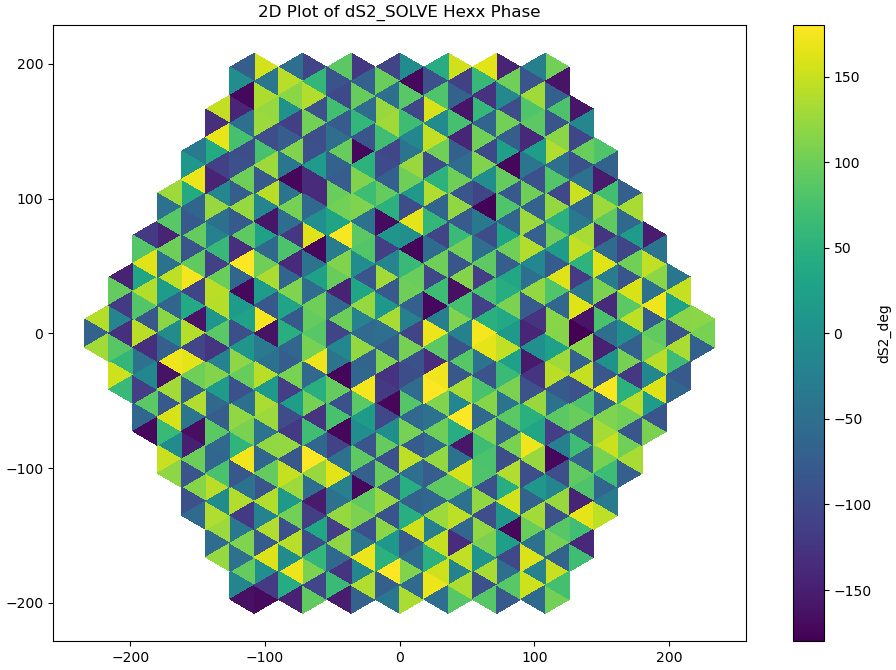
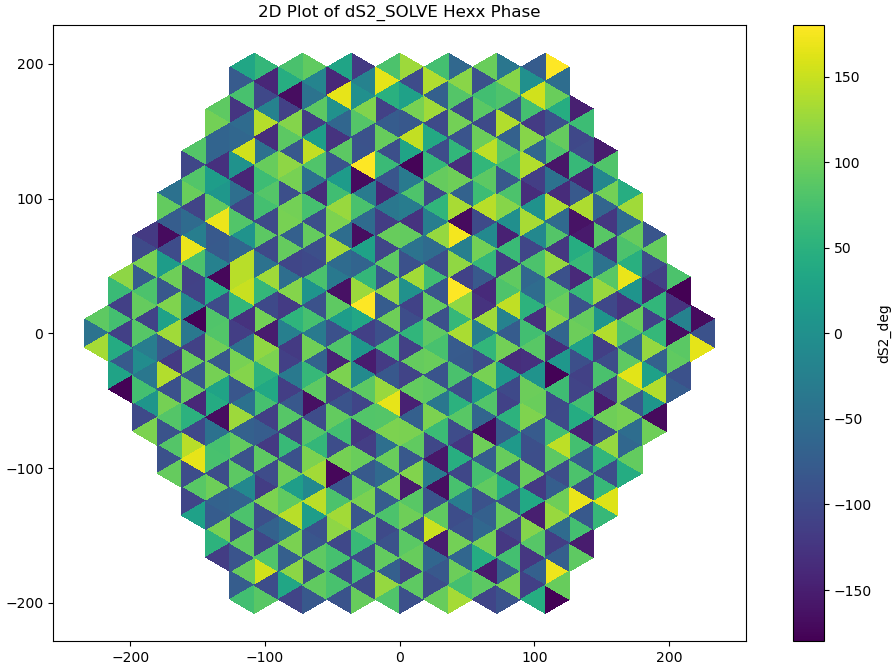
add new test

diff --git a/SRC/UNFOLDING_061_TEST_SUITE_2D_HEXX.py b/SRC/UNFOLDING_061_TEST_SUITE_2D_HEXX.py
@@ -1,0 +1,304 @@
+import numpy as np
+import random
+import os
+import sys
+import time
+
+# Prevent .pyc file generation
+os.environ['PYTHONDONTWRITEBYTECODE'] = '1'
+sys.dont_write_bytecode = True
+
+start_time = time.time()
+
+from SRC_UNFOLDING_2D_HEXX import *
+
+#######################################################################################################
+v1 = 9617897.764585359
+v2 = 297842.0026430868
+Beff = 0.00665941
+l = 0.09243693243603886
+keff_serpent = 0.991938
+FLX = [[0.0, 0.0, 0.0, 0.0, 0.0, 0.0, 0.0, 0.0, 0.0, 0.0, 0.0, 0.0, 0.0, 0.0, 0.0, 0.0, 0.0, 0.0, 0.0, 0.0, 0.0, 0.0, 0.0001770088611845743, 0.0008892357581643995, 0.0012633039317337144, 0.0014801016260392417, 0.0011266130646220855, 0.0007722550058286854, 0.00013829870231191324, 0.0, 0.0, 0.0, 0.0, 0.0, 0.0, 0.0, 0.0008924853491388133, 0.01215136716872885, 0.023234010124160608, 0.02888766523559535, 0.02676197594126766, 0.019577033057860585, 0.00899529521640761, 0.0007809386727331729, 0.0, 0.0, 0.0, 0.0, 0.0, 0.0, 0.0012411085695807078, 0.02287377362991976, 0.14478883877438184, 0.22958575064533893, 0.23566770953586483, 0.19646117959926238, 0.12519292326374717, 0.020189977827251564, 0.0011581501528121851, 0.0, 0.0, 0.0, 0.0, 0.0, 0.0014852349395478841, 0.029529894767073076, 0.22536037782996524, 0.685430774327553, 0.7312280717623661, 0.6854816551883214, 0.5694144969748502, 0.20565591648302445, 0.028399774315115346, 0.0016670605222185414, 0.0, 0.0, 0.0, 0.0, 0.0010725934200870855, 0.025497303879722173, 0.2308871699952172, 0.7377340378259626, 0.7250488738934826, 0.9236402655302522, 0.6978479657266522, 0.7099033376713979, 0.25885242175936973, 0.03207065881669209, 0.0013803864457909657, 0.0, 0.0, 0.0, 0.0006759997241126661, 0.017879421405465057, 0.18783065492713297, 0.6947702389930566, 0.9242056084276797, 0.9946552482477198, 1.0, 0.9265563041951835, 0.7624236928424197, 0.2465392534533971, 0.0251941670181215, 0.0009704630949809989, 0.0, 0.0, 0.00010666347059481987, 0.007468315357313672, 0.10427953266494727, 0.5282405737551997, 0.655657555977427, 0.9427217190042276, 0.7894086400224328, 0.9430711009148379, 0.7323361438413241, 0.7269766931737107, 0.15868044444997226, 0.013376917501772351, 0.00020085163254068492, 0.0, 0.0, 0.000615753392905399, 0.016402293483066287, 0.17680872979888493, 0.6235992216358989, 0.8403494271380422, 0.9123888111856485, 0.910370537041832, 0.9116685643343257, 0.7752908971878714, 0.2452808001637233, 0.02510371215453309, 0.0009665056946990059, 0.0, 0.0, 0.0, 0.0009786877034527754, 0.024076484109907183, 0.20980892540752746, 0.6262936458850387, 0.6322116553353105, 0.8245198260100699, 0.6533441728411533, 0.7057582435474589, 0.24515981678367382, 0.02968785157261434, 0.0013213194198677324, 0.0, 0.0, 0.0, 0.0, 0.0013417622190387136, 0.023799692227326644, 0.1862216890410541, 0.5521421407726429, 0.6144508428697257, 0.6289326665302306, 0.5462196085791916, 0.1981798220074422, 0.029103060879515252, 0.0015850179609438514, 0.0, 0.0, 0.0, 0.0, 0.0, 0.0010641098845682873, 0.01856269483129603, 0.11577204922101404, 0.18499150289625169, 0.20525339234005602, 0.1828884273178211, 0.11128107831242885, 0.0191296206888364, 0.0011337386465012625, 0.0, 0.0, 0.0, 0.0, 0.0, 0.0, 0.0007114829057268105, 0.009653874464478941, 0.01828827738888468, 0.024022776534651565, 0.024140254788737013, 0.017411543623553995, 0.007931873919488389, 0.0007235507152152995, 0.0, 0.0, 0.0, 0.0, 0.0, 0.0, 0.0, 0.00014705247173568188, 0.0007080184844513743, 0.0010270256518686279, 0.0013162539475067815, 0.0010467244597865944, 0.0006577843759575496, 0.00012507985468426165, 0.0, 0.0, 0.0, 0.0, 0.0, 0.0, 0.0, 0.0, 0.0, 0.0, 0.0, 0.0, 0.0, 0.0, 0.0, 0.0, 0.0, 0.0, 0.0, 0.0, 0.0, 0.0], [0.0, 0.0, 0.0, 0.0, 0.0, 0.0, 0.0, 0.0, 0.0, 0.0, 0.0, 0.0, 0.0, 0.0, 0.0, 0.0, 0.0, 0.0, 0.0, 0.0, 0.0, 0.0, 0.016416879329819917, 0.0729558048843365, 0.1090238902601595, 0.10292451880839286, 0.07926571003110518, 0.04053734711714697, 0.008307894787425418, 0.0, 0.0, 0.0, 0.0, 0.0, 0.0, 0.0, 0.07259556839009565, 0.21553132621528936, 0.301065445224492, 0.2815464163479075, 0.2215895407041233, 0.1721423895235177, 0.09764014567755781, 0.041755095718205966, 0.0, 0.0, 0.0, 0.0, 0.0, 0.0, 0.11054398424276277, 0.3000580041812761, 0.43184169494323393, 0.4510701375705407, 0.27581949279696616, 0.3332945131210433, 0.191780140408562, 0.1772383904009299, 0.08264035485442986, 0.0, 0.0, 0.0, 0.0, 0.0, 0.1082870223276524, 0.2893583245045618, 0.444589046594431, 0.31713814379835803, 0.30306675908138564, 0.2780831257582662, 0.2564576292458665, 0.3437759704393506, 0.23427696600819298, 0.10547331072715535, 0.0, 0.0, 0.0, 0.0, 0.08392289175153406, 0.24221664165966586, 0.26801097669769647, 0.31057338207342905, 0.4076065756163086, 0.39883923796300175, 0.40634246889766057, 0.29260113136420635, 0.2876509889543305, 0.2759653512645025, 0.11324835852689732, 0.0, 0.0, 0.0, 0.04353897869674894, 0.18572079523393326, 0.3132010958606724, 0.289949673175271, 0.4026372115479202, 0.45535656741883657, 0.46749108736922207, 0.40168291273706247, 0.3221482125553612, 0.4883511095985048, 0.3227112940811991, 0.07821349383041297, 0.0, 0.0, 0.00836143275981181, 0.10110479309015298, 0.16888940649171943, 0.2337421516272265, 0.36774877066186956, 0.42714708752299535, 0.48577993010100423, 0.4146224809733848, 0.4090572454911078, 0.3388597486033204, 0.4762606863941186, 0.23494293994136264, 0.01791040219624409, 0.0, 0.0, 0.03723223947020587, 0.15259961624524124, 0.2968920839556817, 0.25731242770677704, 0.3642504288125877, 0.4174412806599587, 0.40831664629547765, 0.39801949076173176, 0.32939703918617763, 0.46402666609378584, 0.32108310653660765, 0.07851312556604959, 0.0, 0.0, 0.0, 0.06841757130952637, 0.18831798050471552, 0.22314197230045943, 0.2566701981752993, 0.3630134585530162, 0.35694393720623374, 0.3657813773788216, 0.29382001065106017, 0.2892983981574344, 0.3001722034465565, 0.11649003470074705, 0.0, 0.0, 0.0, 0.0, 0.08262226388171218, 0.2109577021751003, 0.3393052388064933, 0.2522413019168516, 0.2501269194804725, 0.26030309163416887, 0.2442360464892772, 0.3691055936156958, 0.272846919842292, 0.11666981374212901, 0.0, 0.0, 0.0, 0.0, 0.0, 0.08413693057250014, 0.233629083047741, 0.34152590570758884, 0.35072516533453035, 0.23520525904576906, 0.3155857122020219, 0.18488182637415074, 0.20669727810008606, 0.09272075792130201, 0.0, 0.0, 0.0, 0.0, 0.0, 0.0, 0.056906963780741934, 0.17050515649256745, 0.23542687346156066, 0.21371657551454684, 0.21515933058878203, 0.16516831954085112, 0.11004433419001629, 0.047429442379686555, 0.0, 0.0, 0.0, 0.0, 0.0, 0.0, 0.0, 0.01304438280950545, 0.05715842830151772, 0.08562807899875512, 0.08788538011960395, 0.07467489956683428, 0.04042224330323071, 0.009072136623025964, 0.0, 0.0, 0.0, 0.0, 0.0, 0.0, 0.0, 0.0, 0.0, 0.0, 0.0, 0.0, 0.0, 0.0, 0.0, 0.0, 0.0, 0.0, 0.0, 0.0, 0.0, 0.0]]
+NUFIS = [[0.0, 0.0, 0.0, 0.0, 0.0, 0.0, 0.0, 0.0, 0.0, 0.0, 0.0, 0.0, 0.0, 0.0, 0.0, 0.0, 0.0, 0.0, 0.0, 0.0, 0.0, 0.0, 0.0, 0.0, 0.0, 0.0, 0.0, 0.0, 0.0, 0.0, 0.0, 0.0, 0.0, 0.0, 0.0, 0.0, 0.0, 0.0, 0.0, 0.0, 0.0, 0.0, 0.0, 0.0, 0.0, 0.0, 0.0, 0.0, 0.0, 0.0, 0.0, 0.0, 0.0, 0.0, 0.0, 0.0, 0.0, 0.0, 0.0, 0.0, 0.0, 0.0, 0.0, 0.0, 0.0, 0.0, 0.0, 0.000522382, 0.000512195, 0.000514684, 0.000534498, 0.0, 0.0, 0.0, 0.0, 0.0, 0.0, 0.0, 0.0, 0.0, 0.0, 0.000512865, 0.0, 0.000443162, 0.0, 0.000512999, 0.0, 0.0, 0.0, 0.0, 0.0, 0.0, 0.0, 0.0, 0.0, 0.000511301, 0.000441101, 0.000412904, 0.00041152, 0.000442592, 0.000511598, 0.0, 0.0, 0.0, 0.0, 0.0, 0.0, 0.0, 0.0, 0.000535617, 0.0, 0.000413548, 0.0, 0.000416285, 0.0, 0.000522121, 0.0, 0.0, 0.0, 0.0, 0.0, 0.0, 0.0, 0.0, 0.000513923, 0.000441592, 0.000412598, 0.000416055, 0.000441005, 0.000510949, 0.0, 0.0, 0.0, 0.0, 0.0, 0.0, 0.0, 0.0, 0.0, 0.000514271, 0.0, 0.000443337, 0.0, 0.000510688, 0.0, 0.0, 0.0, 0.0, 0.0, 0.0, 0.0, 0.0, 0.0, 0.0, 0.000526856, 0.000515594, 0.000513401, 0.000537045, 0.0, 0.0, 0.0, 0.0, 0.0, 0.0, 0.0, 0.0, 0.0, 0.0, 0.0, 0.0, 0.0, 0.0, 0.0, 0.0, 0.0, 0.0, 0.0, 0.0, 0.0, 0.0, 0.0, 0.0, 0.0, 0.0, 0.0, 0.0, 0.0, 0.0, 0.0, 0.0, 0.0, 0.0, 0.0, 0.0, 0.0, 0.0, 0.0, 0.0, 0.0, 0.0, 0.0, 0.0, 0.0, 0.0, 0.0, 0.0, 0.0, 0.0, 0.0, 0.0, 0.0, 0.0, 0.0, 0.0, 0.0, 0.0, 0.0, 0.0, 0.0, 0.0, 0.0, 0.0, 0.0, 0.0, 0.0], [0.0, 0.0, 0.0, 0.0, 0.0, 0.0, 0.0, 0.0, 0.0, 0.0, 0.0, 0.0, 0.0, 0.0, 0.0, 0.0, 0.0, 0.0, 0.0, 0.0, 0.0, 0.0, 0.0, 0.0, 0.0, 0.0, 0.0, 0.0, 0.0, 0.0, 0.0, 0.0, 0.0, 0.0, 0.0, 0.0, 0.0, 0.0, 0.0, 0.0, 0.0, 0.0, 0.0, 0.0, 0.0, 0.0, 0.0, 0.0, 0.0, 0.0, 0.0, 0.0, 0.0, 0.0, 0.0, 0.0, 0.0, 0.0, 0.0, 0.0, 0.0, 0.0, 0.0, 0.0, 0.0, 0.0, 0.0, 0.0120148, 0.0109863, 0.0109297, 0.0116865, 0.0, 0.0, 0.0, 0.0, 0.0, 0.0, 0.0, 0.0, 0.0, 0.0, 0.0109246, 0.0, 0.00926737, 0.0, 0.0109421, 0.0, 0.0, 0.0, 0.0, 0.0, 0.0, 0.0, 0.0, 0.0, 0.0110345, 0.00930878, 0.00875125, 0.0087552, 0.00928386, 0.0110368, 0.0, 0.0, 0.0, 0.0, 0.0, 0.0, 0.0, 0.0, 0.0115626, 0.0, 0.00864636, 0.0, 0.00861226, 0.0, 0.012056, 0.0, 0.0, 0.0, 0.0, 0.0, 0.0, 0.0, 0.0, 0.0109599, 0.00928907, 0.00866788, 0.00864326, 0.00928984, 0.0109927, 0.0, 0.0, 0.0, 0.0, 0.0, 0.0, 0.0, 0.0, 0.0, 0.0109103, 0.0, 0.00926143, 0.0, 0.011055, 0.0, 0.0, 0.0, 0.0, 0.0, 0.0, 0.0, 0.0, 0.0, 0.0, 0.0119421, 0.0108377, 0.0109514, 0.0115927, 0.0, 0.0, 0.0, 0.0, 0.0, 0.0, 0.0, 0.0, 0.0, 0.0, 0.0, 0.0, 0.0, 0.0, 0.0, 0.0, 0.0, 0.0, 0.0, 0.0, 0.0, 0.0, 0.0, 0.0, 0.0, 0.0, 0.0, 0.0, 0.0, 0.0, 0.0, 0.0, 0.0, 0.0, 0.0, 0.0, 0.0, 0.0, 0.0, 0.0, 0.0, 0.0, 0.0, 0.0, 0.0, 0.0, 0.0, 0.0, 0.0, 0.0, 0.0, 0.0, 0.0, 0.0, 0.0, 0.0, 0.0, 0.0, 0.0, 0.0, 0.0, 0.0, 0.0, 0.0, 0.0, 0.0, 0.0]]
+chi = [[0.0, 0.0, 0.0, 0.0, 0.0, 0.0, 0.0, 0.0, 0.0, 0.0, 0.0, 0.0, 0.0, 0.0, 0.0, 0.0, 0.0, 0.0, 0.0, 0.0, 0.0, 0.0, 0.0, 0.0, 0.0, 0.0, 0.0, 0.0, 0.0, 0.0, 0.0, 0.0, 0.0, 0.0, 0.0, 0.0, 0.0, 0.0, 0.0, 0.0, 0.0, 0.0, 0.0, 0.0, 0.0, 0.0, 0.0, 0.0, 0.0, 0.0, 0.0, 0.0, 0.0, 0.0, 0.0, 0.0, 0.0, 0.0, 0.0, 0.0, 0.0, 0.0, 0.0, 0.0, 0.0, 0.0, 0.0, 1.0, 1.0, 1.0, 1.0, 0.0, 0.0, 0.0, 0.0, 0.0, 0.0, 0.0, 0.0, 0.0, 0.0, 1.0, 0.0, 1.0, 0.0, 1.0, 0.0, 0.0, 0.0, 0.0, 0.0, 0.0, 0.0, 0.0, 0.0, 1.0, 1.0, 1.0, 1.0, 1.0, 1.0, 0.0, 0.0, 0.0, 0.0, 0.0, 0.0, 0.0, 0.0, 1.0, 0.0, 1.0, 0.0, 1.0, 0.0, 1.0, 0.0, 0.0, 0.0, 0.0, 0.0, 0.0, 0.0, 0.0, 1.0, 1.0, 1.0, 1.0, 1.0, 1.0, 0.0, 0.0, 0.0, 0.0, 0.0, 0.0, 0.0, 0.0, 0.0, 1.0, 0.0, 1.0, 0.0, 1.0, 0.0, 0.0, 0.0, 0.0, 0.0, 0.0, 0.0, 0.0, 0.0, 0.0, 1.0, 1.0, 1.0, 1.0, 0.0, 0.0, 0.0, 0.0, 0.0, 0.0, 0.0, 0.0, 0.0, 0.0, 0.0, 0.0, 0.0, 0.0, 0.0, 0.0, 0.0, 0.0, 0.0, 0.0, 0.0, 0.0, 0.0, 0.0, 0.0, 0.0, 0.0, 0.0, 0.0, 0.0, 0.0, 0.0, 0.0, 0.0, 0.0, 0.0, 0.0, 0.0, 0.0, 0.0, 0.0, 0.0, 0.0, 0.0, 0.0, 0.0, 0.0, 0.0, 0.0, 0.0, 0.0, 0.0, 0.0, 0.0, 0.0, 0.0, 0.0, 0.0, 0.0, 0.0, 0.0, 0.0, 0.0, 0.0, 0.0, 0.0, 0.0], [0.0, 0.0, 0.0, 0.0, 0.0, 0.0, 0.0, 0.0, 0.0, 0.0, 0.0, 0.0, 0.0, 0.0, 0.0, 0.0, 0.0, 0.0, 0.0, 0.0, 0.0, 0.0, 0.0, 0.0, 0.0, 0.0, 0.0, 0.0, 0.0, 0.0, 0.0, 0.0, 0.0, 0.0, 0.0, 0.0, 0.0, 0.0, 0.0, 0.0, 0.0, 0.0, 0.0, 0.0, 0.0, 0.0, 0.0, 0.0, 0.0, 0.0, 0.0, 0.0, 0.0, 0.0, 0.0, 0.0, 0.0, 0.0, 0.0, 0.0, 0.0, 0.0, 0.0, 0.0, 0.0, 0.0, 0.0, 0.0, 0.0, 0.0, 0.0, 0.0, 0.0, 0.0, 0.0, 0.0, 0.0, 0.0, 0.0, 0.0, 0.0, 0.0, 0.0, 0.0, 0.0, 0.0, 0.0, 0.0, 0.0, 0.0, 0.0, 0.0, 0.0, 0.0, 0.0, 0.0, 0.0, 0.0, 0.0, 0.0, 0.0, 0.0, 0.0, 0.0, 0.0, 0.0, 0.0, 0.0, 0.0, 0.0, 0.0, 0.0, 0.0, 0.0, 0.0, 0.0, 0.0, 0.0, 0.0, 0.0, 0.0, 0.0, 0.0, 0.0, 0.0, 0.0, 0.0, 0.0, 0.0, 0.0, 0.0, 0.0, 0.0, 0.0, 0.0, 0.0, 0.0, 0.0, 0.0, 0.0, 0.0, 0.0, 0.0, 0.0, 0.0, 0.0, 0.0, 0.0, 0.0, 0.0, 0.0, 0.0, 0.0, 0.0, 0.0, 0.0, 0.0, 0.0, 0.0, 0.0, 0.0, 0.0, 0.0, 0.0, 0.0, 0.0, 0.0, 0.0, 0.0, 0.0, 0.0, 0.0, 0.0, 0.0, 0.0, 0.0, 0.0, 0.0, 0.0, 0.0, 0.0, 0.0, 0.0, 0.0, 0.0, 0.0, 0.0, 0.0, 0.0, 0.0, 0.0, 0.0, 0.0, 0.0, 0.0, 0.0, 0.0, 0.0, 0.0, 0.0, 0.0, 0.0, 0.0, 0.0, 0.0, 0.0, 0.0, 0.0, 0.0, 0.0, 0.0, 0.0, 0.0, 0.0, 0.0, 0.0, 0.0, 0.0, 0.0, 0.0, 0.0, 0.0, 0.0, 0.0, 0.0]]
+TOT = [[0.0, 0.0, 0.0, 0.0, 0.0, 0.0, 0.0, 0.0, 0.0, 0.0, 0.0, 0.0, 0.0, 0.0, 0.0, 0.0, 0.0, 0.0, 0.0, 0.0, 0.0, 0.0, 0.389161, 0.391547, 0.392071, 0.392134, 0.392297, 0.391876, 0.391541, 0.0, 0.0, 0.0, 0.0, 0.0, 0.0, 0.0, 0.391004, 0.392007, 0.392026, 0.392221, 0.392304, 0.391823, 0.391701, 0.391592, 0.0, 0.0, 0.0, 0.0, 0.0, 0.0, 0.392962, 0.392231, 0.270206, 0.341099, 0.297227, 0.341643, 0.282159, 0.391943, 0.391863, 0.0, 0.0, 0.0, 0.0, 0.0, 0.393263, 0.392397, 0.341237, 0.304731, 0.308645, 0.309157, 0.306406, 0.341515, 0.392224, 0.392657, 0.0, 0.0, 0.0, 0.0, 0.391057, 0.392547, 0.302019, 0.308561, 0.294642, 0.311379, 0.292499, 0.309058, 0.288292, 0.392134, 0.391607, 0.0, 0.0, 0.0, 0.390791, 0.392175, 0.341886, 0.308416, 0.310974, 0.311345, 0.310995, 0.311286, 0.308445, 0.340762, 0.392137, 0.391888, 0.0, 0.0, 0.38848, 0.392436, 0.299122, 0.306825, 0.293954, 0.311815, 0.293944, 0.312481, 0.294693, 0.304619, 0.269898, 0.391855, 0.389877, 0.0, 0.0, 0.391791, 0.392315, 0.341805, 0.308714, 0.311126, 0.311597, 0.31207, 0.311014, 0.308258, 0.340882, 0.392132, 0.391925, 0.0, 0.0, 0.0, 0.392157, 0.39215, 0.289635, 0.309175, 0.293471, 0.311444, 0.29399, 0.308522, 0.302917, 0.392531, 0.392224, 0.0, 0.0, 0.0, 0.0, 0.392653, 0.392141, 0.34128, 0.30531, 0.309248, 0.308809, 0.306669, 0.341528, 0.392553, 0.392669, 0.0, 0.0, 0.0, 0.0, 0.0, 0.392169, 0.392026, 0.270055, 0.341252, 0.296829, 0.341476, 0.298772, 0.392309, 0.39175, 0.0, 0.0, 0.0, 0.0, 0.0, 0.0, 0.391869, 0.392141, 0.392075, 0.392299, 0.392106, 0.392071, 0.392339, 0.391521, 0.0, 0.0, 0.0, 0.0, 0.0, 0.0, 0.0, 0.38963, 0.391708, 0.392132, 0.391411, 0.392334, 0.391583, 0.389628, 0.0, 0.0, 0.0, 0.0, 0.0, 0.0, 0.0, 0.0, 0.0, 0.0, 0.0, 0.0, 0.0, 0.0, 0.0, 0.0, 0.0, 0.0, 0.0, 0.0, 0.0, 0.0], [0.0, 0.0, 0.0, 0.0, 0.0, 0.0, 0.0, 0.0, 0.0, 0.0, 0.0, 0.0, 0.0, 0.0, 0.0, 0.0, 0.0, 0.0, 0.0, 0.0, 0.0, 0.0, 0.413974, 0.414676, 0.414757, 0.414747, 0.414837, 0.414598, 0.41387, 0.0, 0.0, 0.0, 0.0, 0.0, 0.0, 0.0, 0.414614, 0.41502, 0.415125, 0.415174, 0.41522, 0.415245, 0.415117, 0.414582, 0.0, 0.0, 0.0, 0.0, 0.0, 0.0, 0.414831, 0.415102, 0.288461, 0.37019, 0.336167, 0.37013, 0.337427, 0.415195, 0.414799, 0.0, 0.0, 0.0, 0.0, 0.0, 0.414818, 0.415207, 0.370174, 0.366756, 0.365345, 0.364954, 0.366868, 0.370125, 0.415232, 0.414753, 0.0, 0.0, 0.0, 0.0, 0.414776, 0.415184, 0.338968, 0.365645, 0.338143, 0.363172, 0.334827, 0.365236, 0.338572, 0.415175, 0.414712, 0.0, 0.0, 0.0, 0.414703, 0.415172, 0.370173, 0.364852, 0.363321, 0.362851, 0.363257, 0.363503, 0.365317, 0.370231, 0.415167, 0.414678, 0.0, 0.0, 0.413992, 0.415098, 0.341854, 0.366703, 0.338289, 0.362997, 0.337089, 0.362813, 0.338934, 0.36678, 0.288836, 0.415102, 0.413973, 0.0, 0.0, 0.414571, 0.415232, 0.370049, 0.365164, 0.363119, 0.363189, 0.362866, 0.363346, 0.365598, 0.370035, 0.415143, 0.41461, 0.0, 0.0, 0.0, 0.414827, 0.415316, 0.339421, 0.36512, 0.335783, 0.363246, 0.33903, 0.365215, 0.340163, 0.415143, 0.414732, 0.0, 0.0, 0.0, 0.0, 0.414836, 0.415184, 0.36999, 0.366676, 0.365336, 0.365116, 0.367004, 0.370114, 0.415149, 0.414766, 0.0, 0.0, 0.0, 0.0, 0.0, 0.41473, 0.415157, 0.28843, 0.370035, 0.337733, 0.370077, 0.341479, 0.415227, 0.414842, 0.0, 0.0, 0.0, 0.0, 0.0, 0.0, 0.414576, 0.415039, 0.4152, 0.415157, 0.415242, 0.415153, 0.415054, 0.41467, 0.0, 0.0, 0.0, 0.0, 0.0, 0.0, 0.0, 0.414081, 0.414568, 0.414823, 0.414915, 0.414783, 0.414576, 0.414195, 0.0, 0.0, 0.0, 0.0, 0.0, 0.0, 0.0, 0.0, 0.0, 0.0, 0.0, 0.0, 0.0, 0.0, 0.0, 0.0, 0.0, 0.0, 0.0, 0.0, 0.0, 0.0]]
+ABS = [[0.0, 0.0, 0.0, 0.0, 0.0, 0.0, 0.0, 0.0, 0.0, 0.0, 0.0, 0.0, 0.0, 0.0, 0.0, 0.0, 0.0, 0.0, 0.0, 0.0, 0.0, 0.0, 2.49681e-05, 2.46682e-05, 2.4092e-05, 2.58665e-05, 2.49027e-05, 2.44886e-05, 2.36834e-05, 0.0, 0.0, 0.0, 0.0, 0.0, 0.0, 0.0, 2.45974e-05, 2.09468e-05, 2.02901e-05, 2.03892e-05, 2.03573e-05, 2.03851e-05, 2.04403e-05, 2.23988e-05, 0.0, 0.0, 0.0, 0.0, 0.0, 0.0, 2.49633e-05, 2.06821e-05, 9.03337e-06, 1.1141e-05, 0.00027103, 1.13705e-05, 0.000200805, 2.01971e-05, 2.3472e-05, 0.0, 0.0, 0.0, 0.0, 0.0, 2.47092e-05, 2.08642e-05, 1.1149e-05, 0.000906082, 0.000936552, 0.000942829, 0.000938656, 1.12833e-05, 2.03097e-05, 2.33956e-05, 0.0, 0.0, 0.0, 0.0, 2.38485e-05, 2.04681e-05, 0.000315693, 0.000930792, 0.00025588, 0.00092235, 0.000244875, 0.000942538, 0.000220365, 1.99971e-05, 2.3802e-05, 0.0, 0.0, 0.0, 2.49416e-05, 2.0585e-05, 1.11535e-05, 0.000928957, 0.000914597, 0.000905528, 0.00090295, 0.000921941, 0.000936021, 1.10909e-05, 2.09077e-05, 2.39706e-05, 0.0, 0.0, 2.61972e-05, 2.09608e-05, 0.000319092, 0.000930518, 0.000256301, 0.000909864, 0.000255535, 0.000918319, 0.000256172, 0.000910845, 9.04205e-06, 2.14181e-05, 3.06176e-05, 0.0, 0.0, 2.60163e-05, 2.0354e-05, 1.11496e-05, 0.000931335, 0.000918002, 0.000909011, 0.000915826, 0.000920863, 0.000936614, 1.10138e-05, 2.07278e-05, 2.5114e-05, 0.0, 0.0, 0.0, 2.47353e-05, 1.99399e-05, 0.0002231, 0.000940831, 0.000245022, 0.000922001, 0.000255716, 0.000937125, 0.000315311, 2.06455e-05, 2.54243e-05, 0.0, 0.0, 0.0, 0.0, 2.45523e-05, 2.08067e-05, 1.11579e-05, 0.000912519, 0.00094301, 0.000936448, 0.000940063, 1.10451e-05, 2.04203e-05, 2.47213e-05, 0.0, 0.0, 0.0, 0.0, 0.0, 2.42994e-05, 2.07273e-05, 8.82295e-06, 1.12414e-05, 0.000274347, 1.12262e-05, 0.000318392, 2.04381e-05, 2.44466e-05, 0.0, 0.0, 0.0, 0.0, 0.0, 0.0, 2.34907e-05, 2.13503e-05, 2.07658e-05, 2.04893e-05, 2.02097e-05, 2.00127e-05, 2.11965e-05, 2.26605e-05, 0.0, 0.0, 0.0, 0.0, 0.0, 0.0, 0.0, 2.59576e-05, 2.3675e-05, 2.36789e-05, 2.31692e-05, 2.38071e-05, 2.45509e-05, 3.31392e-05, 0.0, 0.0, 0.0, 0.0, 0.0, 0.0, 0.0, 0.0, 0.0, 0.0, 0.0, 0.0, 0.0, 0.0, 0.0, 0.0, 0.0, 0.0, 0.0, 0.0, 0.0, 0.0], [0.0, 0.0, 0.0, 0.0, 0.0, 0.0, 0.0, 0.0, 0.0, 0.0, 0.0, 0.0, 0.0, 0.0, 0.0, 0.0, 0.0, 0.0, 0.0, 0.0, 0.0, 0.0, 0.000376016, 0.000374196, 0.000373757, 0.000373122, 0.000373233, 0.000372629, 0.0003767, 0.0, 0.0, 0.0, 0.0, 0.0, 0.0, 0.0, 0.000374109, 0.000367227, 0.000364106, 0.000360137, 0.000357608, 0.000358523, 0.000361782, 0.000372923, 0.0, 0.0, 0.0, 0.0, 0.0, 0.0, 0.000373828, 0.000364232, 0.000179777, 0.000223523, 0.00401001, 0.000218371, 0.00399349, 0.000358671, 0.000373421, 0.0, 0.0, 0.0, 0.0, 0.0, 0.000373063, 0.000360624, 0.000223794, 0.00716754, 0.00668041, 0.00657811, 0.00705041, 0.000218112, 0.000357624, 0.000372881, 0.0, 0.0, 0.0, 0.0, 0.000373705, 0.000359883, 0.00418995, 0.00657676, 0.0039199, 0.00576162, 0.00370111, 0.00660458, 0.00420211, 0.000358892, 0.000373959, 0.0, 0.0, 0.0, 0.00037371, 0.000360885, 0.000218305, 0.00656685, 0.00580069, 0.00550412, 0.00558771, 0.00585978, 0.00659917, 0.000223503, 0.000363791, 0.000373935, 0.0, 0.0, 0.000375924, 0.000364113, 0.00431844, 0.00693499, 0.0039608, 0.00545899, 0.00389179, 0.00550106, 0.00398479, 0.00710702, 0.000180077, 0.000366874, 0.000376598, 0.0, 0.0, 0.000373172, 0.000358965, 0.000218002, 0.00657515, 0.00575542, 0.00553941, 0.00551658, 0.00583428, 0.00666145, 0.000222637, 0.0003638, 0.000374036, 0.0, 0.0, 0.0, 0.000373002, 0.000356269, 0.0042781, 0.00659819, 0.00373278, 0.00577932, 0.00400477, 0.00668087, 0.00435786, 0.000361265, 0.000374108, 0.0, 0.0, 0.0, 0.0, 0.000372679, 0.00035898, 0.000221343, 0.00712552, 0.0066004, 0.00663009, 0.00703205, 0.000221274, 0.000360048, 0.000373712, 0.0, 0.0, 0.0, 0.0, 0.0, 0.000373527, 0.000363643, 0.000179358, 0.000222282, 0.00413878, 0.000219112, 0.00429142, 0.000361395, 0.000373531, 0.0, 0.0, 0.0, 0.0, 0.0, 0.0, 0.000374174, 0.00036706, 0.000363626, 0.000359167, 0.000358627, 0.000359719, 0.000363997, 0.00037387, 0.0, 0.0, 0.0, 0.0, 0.0, 0.0, 0.0, 0.000375788, 0.000374033, 0.0003736, 0.000372949, 0.000373232, 0.000372989, 0.000375812, 0.0, 0.0, 0.0, 0.0, 0.0, 0.0, 0.0, 0.0, 0.0, 0.0, 0.0, 0.0, 0.0, 0.0, 0.0, 0.0, 0.0, 0.0, 0.0, 0.0, 0.0, 0.0]]
+D1 = [[0.0, 0.0, 0.0, 0.0, 0.0, 0.0, 0.0, 0.0, 0.0, 0.0, 0.0, 0.0, 0.0, 0.0, 0.0], [0.0, 0.0, 0.0, 0.0, 0.0, 0.0, 0.0, 1.02541, 0.96422, 0.956443, 0.95258, 0.95751, 0.96562, 1.01815, 0.0], [0.0, 0.0, 0.0, 0.0, 0.0, 0.0, 0.985604, 0.944253, 0.943402, 0.942349, 0.941122, 0.943368, 0.944316, 0.977497, 0.0], [0.0, 0.0, 0.0, 0.0, 0.0, 0.968004, 0.941671, 1.39331, 1.11034, 1.28516, 1.10673, 1.374, 0.942043, 0.960087, 0.0], [0.0, 0.0, 0.0, 0.0, 0.945961, 0.941167, 1.10961, 1.31633, 1.2895, 1.28649, 1.30586, 1.10733, 0.941888, 0.950791, 0.0], [0.0, 0.0, 0.0, 0.987457, 0.940077, 1.26897, 1.29044, 1.3029, 1.27157, 1.31619, 1.28747, 1.33394, 0.940767, 0.956993, 0.0], [0.0, 0.0, 0.977238, 0.943275, 1.10596, 1.29078, 1.27406, 1.27123, 1.2741, 1.27191, 1.2912, 1.11153, 0.942495, 0.967259, 0.0], [0.0, 1.08962, 0.942853, 1.28861, 1.30215, 1.31023, 1.26839, 1.30901, 1.26384, 1.30213, 1.31708, 1.39572, 0.94558, 1.06743, 0.0], [0.0, 0.971533, 0.940516, 1.10629, 1.28836, 1.27271, 1.26988, 1.26677, 1.27395, 1.29266, 1.11043, 0.942152, 0.967651, 0.0, 0.0], [0.0, 0.957889, 0.941355, 1.32118, 1.286, 1.30708, 1.27127, 1.31029, 1.29054, 1.26121, 0.93944, 0.966223, 0.0, 0.0, 0.0], [0.0, 0.95136, 0.94164, 1.10903, 1.31249, 1.28557, 1.28848, 1.30384, 1.10792, 0.939835, 0.949434, 0.0, 0.0, 0.0, 0.0], [0.0, 0.954781, 0.943381, 1.39355, 1.10921, 1.28907, 1.10807, 1.29086, 0.941191, 0.96845, 0.0, 0.0, 0.0, 0.0, 0.0], [0.0, 0.961098, 0.944596, 0.94325, 0.940643, 0.943988, 0.942479, 0.943061, 0.988751, 0.0, 0.0, 0.0, 0.0, 0.0, 0.0], [0.0, 1.00649, 0.962451, 0.959082, 0.95549, 0.968029, 0.970212, 1.11985, 0.0, 0.0, 0.0, 0.0, 0.0, 0.0, 0.0], [0.0, 0.0, 0.0, 0.0, 0.0, 0.0, 0.0, 0.0, 0.0, 0.0, 0.0, 0.0, 0.0, 0.0, 0.0]]
+SIGS11 = [0.0, 0.0, 0.0, 0.0, 0.0, 0.0, 0.0, 0.0, 0.0, 0.0, 0.0, 0.0, 0.0, 0.0, 0.0, 0.0, 0.0, 0.0, 0.0, 0.0, 0.0, 0.0, 0.378984, 0.381824, 0.382002, 0.382107, 0.382467, 0.382194, 0.38169, 0.0, 0.0, 0.0, 0.0, 0.0, 0.0, 0.0, 0.381141, 0.384185, 0.384303, 0.384574, 0.384764, 0.384298, 0.384095, 0.382196, 0.0, 0.0, 0.0, 0.0, 0.0, 0.0, 0.382828, 0.384526, 0.266822, 0.337011, 0.293754, 0.337461, 0.278642, 0.384395, 0.381699, 0.0, 0.0, 0.0, 0.0, 0.0, 0.383365, 0.38481, 0.337138, 0.301578, 0.305295, 0.305779, 0.303091, 0.33736, 0.384643, 0.382908, 0.0, 0.0, 0.0, 0.0, 0.380885, 0.384852, 0.298497, 0.305221, 0.29155, 0.307898, 0.289407, 0.305694, 0.284912, 0.384712, 0.381388, 0.0, 0.0, 0.0, 0.381152, 0.38443, 0.33771, 0.305073, 0.307515, 0.307848, 0.307512, 0.307801, 0.30512, 0.336686, 0.384442, 0.381863, 0.0, 0.0, 0.377984, 0.384501, 0.295408, 0.303498, 0.290855, 0.308296, 0.290764, 0.308923, 0.291597, 0.301481, 0.26654, 0.384026, 0.38025, 0.0, 0.0, 0.382028, 0.38466, 0.337604, 0.305357, 0.307646, 0.308082, 0.308522, 0.307536, 0.30493, 0.336827, 0.384454, 0.381821, 0.0, 0.0, 0.0, 0.382107, 0.384656, 0.286218, 0.3058, 0.290376, 0.307954, 0.290885, 0.305187, 0.299406, 0.384829, 0.382178, 0.0, 0.0, 0.0, 0.0, 0.382907, 0.384515, 0.337161, 0.302102, 0.305863, 0.30545, 0.303358, 0.337355, 0.384947, 0.382737, 0.0, 0.0, 0.0, 0.0, 0.0, 0.381989, 0.384311, 0.266665, 0.337123, 0.29334, 0.337308, 0.295083, 0.384621, 0.381961, 0.0, 0.0, 0.0, 0.0, 0.0, 0.0, 0.382083, 0.38416, 0.384301, 0.384793, 0.38446, 0.384477, 0.384464, 0.381687, 0.0, 0.0, 0.0, 0.0, 0.0, 0.0, 0.0, 0.378862, 0.381771, 0.381783, 0.381655, 0.382221, 0.381714, 0.380106, 0.0, 0.0, 0.0, 0.0, 0.0, 0.0, 0.0, 0.0, 0.0, 0.0, 0.0, 0.0, 0.0, 0.0, 0.0, 0.0, 0.0, 0.0, 0.0, 0.0, 0.0, 0.0]
+SIGS12 = [0.0, 0.0, 0.0, 0.0, 0.0, 0.0, 0.0, 0.0, 0.0, 0.0, 0.0, 0.0, 0.0, 0.0, 0.0, 0.0, 0.0, 0.0, 0.0, 0.0, 0.0, 0.0, 0.0101777, 0.00969098, 0.0100426, 0.00999938, 0.00979824, 0.00966426, 0.00982481, 0.0, 0.0, 0.0, 0.0, 0.0, 0.0, 0.0, 0.00984238, 0.007802, 0.00770397, 0.00762692, 0.00751917, 0.00750506, 0.00758574, 0.00939098, 0.0, 0.0, 0.0, 0.0, 0.0, 0.0, 0.0101042, 0.0076823, 0.00337446, 0.00407753, 0.00320331, 0.00417087, 0.00331531, 0.00752806, 0.0101482, 0.0, 0.0, 0.0, 0.0, 0.0, 0.00987262, 0.00756684, 0.00408693, 0.00224579, 0.00241178, 0.00243375, 0.00237642, 0.00414401, 0.00755907, 0.0097272, 0.0, 0.0, 0.0, 0.0, 0.0101395, 0.00767605, 0.00320898, 0.00241054, 0.00283558, 0.00255685, 0.00284784, 0.0024198, 0.0031591, 0.00740203, 0.0102041, 0.0, 0.0, 0.0, 0.00961953, 0.00772128, 0.00416431, 0.00241455, 0.00254301, 0.0025896, 0.00257938, 0.00256215, 0.00238879, 0.00406452, 0.00767499, 0.00999299, 0.0, 0.0, 0.0104755, 0.00791482, 0.00339509, 0.00239665, 0.00284117, 0.00261002, 0.00292535, 0.00263935, 0.00284018, 0.00222741, 0.00334859, 0.00780769, 0.00957962, 0.0, 0.0, 0.00975142, 0.00763536, 0.00419012, 0.00242579, 0.00256035, 0.00260671, 0.00263199, 0.00255583, 0.00239047, 0.00404389, 0.00765517, 0.0100975, 0.0, 0.0, 0.0, 0.0100263, 0.00747528, 0.00319496, 0.00243587, 0.0028517, 0.00256909, 0.00284983, 0.00239608, 0.00319732, 0.00768167, 0.0100206, 0.0, 0.0, 0.0, 0.0, 0.00973931, 0.00760401, 0.00410799, 0.00229215, 0.00244405, 0.00241974, 0.00237218, 0.00416202, 0.00758668, 0.00991453, 0.0, 0.0, 0.0, 0.0, 0.0, 0.0101551, 0.00769251, 0.00338055, 0.00411801, 0.00321448, 0.00415565, 0.0033724, 0.00767062, 0.00976967, 0.0, 0.0, 0.0, 0.0, 0.0, 0.0, 0.00975679, 0.00796354, 0.00775081, 0.00748564, 0.00762409, 0.00757342, 0.00785526, 0.0098161, 0.0, 0.0, 0.0, 0.0, 0.0, 0.0, 0.0, 0.0107249, 0.00991125, 0.0103333, 0.00973633, 0.0100788, 0.00983258, 0.00952191, 0.0, 0.0, 0.0, 0.0, 0.0, 0.0, 0.0, 0.0, 0.0, 0.0, 0.0, 0.0, 0.0, 0.0, 0.0, 0.0, 0.0, 0.0, 0.0, 0.0, 0.0, 0.0]
+D2 = [[0.0, 0.0, 0.0, 0.0, 0.0, 0.0, 0.0, 0.0, 0.0, 0.0, 0.0, 0.0, 0.0, 0.0, 0.0], [0.0, 0.0, 0.0, 0.0, 0.0, 0.0, 0.0, 0.800245, 0.797655, 0.797443, 0.797573, 0.797292, 0.798348, 0.800176, 0.0], [0.0, 0.0, 0.0, 0.0, 0.0, 0.0, 0.797967, 0.797538, 0.797718, 0.798278, 0.798564, 0.798238, 0.79804, 0.798178, 0.0], [0.0, 0.0, 0.0, 0.0, 0.0, 0.797051, 0.797763, 1.15142, 0.898973, 0.994332, 0.90018, 0.989713, 0.798296, 0.797135, 0.0], [0.0, 0.0, 0.0, 0.0, 0.79725, 0.797954, 0.899085, 0.917898, 0.923933, 0.925359, 0.918562, 0.900524, 0.798353, 0.797711, 0.0], [0.0, 0.0, 0.0, 0.797276, 0.798095, 0.985609, 0.922925, 0.995792, 0.929752, 1.00553, 0.924156, 0.988564, 0.798354, 0.797457, 0.0], [0.0, 0.0, 0.7977, 0.798045, 0.900436, 0.92506, 0.929279, 0.929858, 0.928526, 0.928875, 0.923305, 0.898706, 0.797595, 0.797675, 0.0], [0.0, 0.799961, 0.797869, 0.975536, 0.919457, 0.995622, 0.929686, 0.998382, 0.930921, 0.993958, 0.917346, 1.14957, 0.797328, 0.799999, 0.0], [0.0, 0.798404, 0.798268, 0.900651, 0.924571, 0.929834, 0.929284, 0.930462, 0.929164, 0.9228, 0.899774, 0.797807, 0.79809, 0.0, 0.0], [0.0, 0.797283, 0.798399, 0.986705, 0.924598, 1.00289, 0.929655, 0.99365, 0.924015, 0.9822, 0.798005, 0.79739, 0.0, 0.0, 0.0], [0.0, 0.797287, 0.798287, 0.900163, 0.918485, 0.924261, 0.924592, 0.918213, 0.899635, 0.798381, 0.797338, 0.0, 0.0, 0.0, 0.0], [0.0, 0.797549, 0.797602, 1.15169, 0.899853, 0.990002, 0.900411, 0.976155, 0.797878, 0.797099, 0.0, 0.0, 0.0, 0.0, 0.0], [0.0, 0.798096, 0.797417, 0.797503, 0.798475, 0.798022, 0.798193, 0.798176, 0.797784, 0.0, 0.0, 0.0, 0.0, 0.0, 0.0], [0.0, 0.799643, 0.797869, 0.797317, 0.796921, 0.79743, 0.798169, 0.79924, 0.0, 0.0, 0.0, 0.0, 0.0, 0.0, 0.0], [0.0, 0.0, 0.0, 0.0, 0.0, 0.0, 0.0, 0.0, 0.0, 0.0, 0.0, 0.0, 0.0, 0.0, 0.0]]
+SIGS21 = [0.0, 0.0, 0.0, 0.0, 0.0, 0.0, 0.0, 0.0, 0.0, 0.0, 0.0, 0.0, 0.0, 0.0, 0.0, 0.0, 0.0, 0.0, 0.0, 0.0, 0.0, 0.0, 2.17336e-06, 3.97219e-06, 3.90116e-06, 4.66208e-06, 4.7275e-06, 5.30578e-06, 3.26715e-06, 0.0, 0.0, 0.0, 0.0, 0.0, 0.0, 0.0, 4.08471e-06, 1.50416e-05, 1.90523e-05, 2.58162e-05, 2.92502e-05, 2.79629e-05, 2.2887e-05, 5.41401e-06, 0.0, 0.0, 0.0, 0.0, 0.0, 0.0, 3.72103e-06, 1.92102e-05, 3.61835e-05, 6.66447e-05, 0.000105468, 7.86636e-05, 7.94856e-05, 2.75036e-05, 4.07448e-06, 0.0, 0.0, 0.0, 0.0, 0.0, 4.78247e-06, 2.51467e-05, 6.56653e-05, 0.000156506, 0.000184869, 0.000193249, 0.000169244, 7.87461e-05, 2.89055e-05, 4.94749e-06, 0.0, 0.0, 0.0, 0.0, 3.90965e-06, 2.58067e-05, 0.000109523, 0.000184179, 0.000191096, 0.000188641, 0.000184065, 0.000187824, 0.000105112, 2.82956e-05, 3.83755e-06, 0.0, 0.0, 0.0, 4.7697e-06, 2.42873e-05, 7.84702e-05, 0.000186136, 0.000189504, 0.000181886, 0.000178939, 0.000190427, 0.000179763, 6.49824e-05, 1.97088e-05, 4.43074e-06, 0.0, 0.0, 4.27826e-06, 1.85974e-05, 8.00566e-05, 0.000175221, 0.000192394, 0.000185769, 0.000179344, 0.000193888, 0.000191467, 0.000153153, 3.54963e-05, 1.46335e-05, 3.40439e-06, 0.0, 0.0, 5.22296e-06, 2.72307e-05, 7.97401e-05, 0.000187237, 0.000188705, 0.000181536, 0.000188725, 0.000188847, 0.000179131, 6.75812e-05, 1.91946e-05, 3.88931e-06, 0.0, 0.0, 0.0, 4.92514e-06, 3.1226e-05, 0.000111051, 0.000191698, 0.000185177, 0.000191458, 0.000191835, 0.000183145, 0.000105599, 2.43479e-05, 4.03552e-06, 0.0, 0.0, 0.0, 0.0, 4.88606e-06, 2.72373e-05, 7.14864e-05, 0.00016037, 0.000193507, 0.00018725, 0.000170723, 7.17319e-05, 2.65424e-05, 4.5787e-06, 0.0, 0.0, 0.0, 0.0, 0.0, 4.30505e-06, 1.96243e-05, 3.62948e-05, 6.88134e-05, 0.000106099, 7.64154e-05, 7.88193e-05, 2.24598e-05, 4.01163e-06, 0.0, 0.0, 0.0, 0.0, 0.0, 0.0, 4.28702e-06, 1.5436e-05, 1.95154e-05, 2.67131e-05, 2.80354e-05, 2.61455e-05, 1.79386e-05, 4.79701e-06, 0.0, 0.0, 0.0, 0.0, 0.0, 0.0, 0.0, 6.24455e-06, 3.79619e-06, 4.38733e-06, 4.91872e-06, 4.72555e-06, 5.7201e-06, 4.21319e-06, 0.0, 0.0, 0.0, 0.0, 0.0, 0.0, 0.0, 0.0, 0.0, 0.0, 0.0, 0.0, 0.0, 0.0, 0.0, 0.0, 0.0, 0.0, 0.0, 0.0, 0.0, 0.0]
+SIGS22 = [0.0, 0.0, 0.0, 0.0, 0.0, 0.0, 0.0, 0.0, 0.0, 0.0, 0.0, 0.0, 0.0, 0.0, 0.0, 0.0, 0.0, 0.0, 0.0, 0.0, 0.0, 0.0, 0.413598, 0.414303, 0.414378, 0.414366, 0.414459, 0.414227, 0.413469, 0.0, 0.0, 0.0, 0.0, 0.0, 0.0, 0.0, 0.414236, 0.414639, 0.41474, 0.41479, 0.414833, 0.414857, 0.414734, 0.414199, 0.0, 0.0, 0.0, 0.0, 0.0, 0.0, 0.414454, 0.414717, 0.288246, 0.369899, 0.332047, 0.369833, 0.333344, 0.414809, 0.414423, 0.0, 0.0, 0.0, 0.0, 0.0, 0.414441, 0.414819, 0.369883, 0.359425, 0.358467, 0.358182, 0.359657, 0.369828, 0.414848, 0.414373, 0.0, 0.0, 0.0, 0.0, 0.4144, 0.414801, 0.334663, 0.358882, 0.334038, 0.357216, 0.330953, 0.358447, 0.334266, 0.414785, 0.414338, 0.0, 0.0, 0.0, 0.414322, 0.414786, 0.369878, 0.358096, 0.357325, 0.357162, 0.357496, 0.357456, 0.35854, 0.369944, 0.414785, 0.414299, 0.0, 0.0, 0.413608, 0.414723, 0.337465, 0.359599, 0.334148, 0.357353, 0.333024, 0.357119, 0.33476, 0.359515, 0.288623, 0.414723, 0.413607, 0.0, 0.0, 0.414189, 0.414843, 0.369751, 0.358405, 0.357174, 0.35747, 0.357159, 0.357321, 0.358758, 0.369744, 0.414759, 0.41423, 0.0, 0.0, 0.0, 0.414448, 0.414927, 0.335034, 0.358334, 0.331866, 0.357278, 0.334833, 0.358351, 0.335696, 0.414757, 0.414354, 0.0, 0.0, 0.0, 0.0, 0.414457, 0.414796, 0.369696, 0.359391, 0.35854, 0.3583, 0.359797, 0.369823, 0.414764, 0.414386, 0.0, 0.0, 0.0, 0.0, 0.0, 0.414351, 0.414773, 0.288214, 0.369746, 0.333492, 0.369782, 0.337095, 0.414841, 0.414463, 0.0, 0.0, 0.0, 0.0, 0.0, 0.0, 0.4142, 0.414658, 0.414817, 0.414769, 0.414856, 0.414765, 0.414673, 0.414292, 0.0, 0.0, 0.0, 0.0, 0.0, 0.0, 0.0, 0.413691, 0.414193, 0.414446, 0.414533, 0.414399, 0.414202, 0.413807, 0.0, 0.0, 0.0, 0.0, 0.0, 0.0, 0.0, 0.0, 0.0, 0.0, 0.0, 0.0, 0.0, 0.0, 0.0, 0.0, 0.0, 0.0, 0.0, 0.0, 0.0, 0.0]
+
+# DIMENSIONS
+level = 1
+geom_type = '2D triangular'
+precond = 2
+s = 36.0 # Side-to-side of Hexagon
+h_hexx = s / np.sqrt(3) # Triangle side or hexagon radius
+h = h_hexx / (2**(level-1))
+
+# INITIALIZATION
+input_name = f"OBJECTIVES61_TEST_SUITE_2DTriMG_HTTR" 
+case_name_base = f"{input_name}"
+case_name2 = f"{input_name}_level{level}"
+
+# BC
+BC = [3, 3, 3, 3]  # N, S, E, W
+
+# CROSS SECTION DEFINITIONS
+f = 1.0
+D = [D1, D2]
+SIGS_reshaped = [[SIGS11, SIGS21], 
+                 [SIGS12, SIGS22]]
+
+I_max = len(D[0][0])
+J_max = len(D[0])
+group = len(D)
+n = 6 * (4 ** (level - 1))
+N = I_max * J_max
+N_hexx = I_max * J_max * n
+
+omega = 2 * np.pi * f
+v1_hexx = [0] * I_max * J_max
+v2_hexx = [0] * I_max * J_max
+for i in range(I_max * J_max):
+    if TOT[0][i] != 0:
+        v1_hexx[i] = v1
+        v2_hexx[i] = v2
+v = [v1_hexx, v2_hexx]
+
+# Noise Sources
+type_noise = 'AVS'
+dTOT1 = [0] * I_max * J_max
+dTOT2 = [0] * I_max * J_max
+#dTOT2[71] = 0.05 * ABS[1][71]
+dTOT = [dTOT1, dTOT2]
+
+dNUFIS = [[0] * I_max * J_max for _ in range(group)]
+dSIGS12 = [0] * I_max * J_max
+dSIGS21 = [0] * I_max * J_max
+dSIGS11 = [0] * I_max * J_max
+dSIGS22 = [0] * I_max * J_max
+dSIGS_reshaped = [[dSIGS11, dSIGS21], 
+                  [dSIGS12, dSIGS22]]
+
+noise_section = 1
+
+map_detector = [
+9, 9, 9, 9, 9, 9, 9, 9, 9, 9, 9, 9, 9, 9, 9, 
+9, 9, 9, 9, 9, 9, 9, 1, 0, 0, 1, 0, 0, 1, 9, 
+9, 9, 9, 9, 9, 9, 0, 0, 0, 0, 0, 0, 0, 0, 9, 
+9, 9, 9, 9, 9, 0, 0, 0, 0, 1, 0, 0, 0, 0, 9, 
+9, 9, 9, 9, 1, 0, 0, 0, 0, 0, 0, 0, 0, 1, 9, 
+9, 9, 9, 0, 0, 0, 1, 0, 0, 0, 1, 0, 0, 0, 9, 
+9, 9, 0, 0, 0, 0, 0, 0, 0, 0, 0, 0, 0, 0, 9, 
+9, 1, 0, 0, 1, 0, 0, 1, 0, 0, 1, 0, 0, 1, 9, 
+9, 0, 0, 0, 0, 0, 0, 0, 0, 0, 0, 0, 0, 9, 9, 
+9, 0, 0, 0, 1, 0, 0, 0, 1, 0, 0, 0, 9, 9, 9, 
+9, 1, 0, 0, 0, 0, 0, 0, 0, 0, 1, 9, 9, 9, 9, 
+9, 0, 0, 0, 0, 1, 0, 0, 0, 0, 9, 9, 9, 9, 9, 
+9, 0, 0, 0, 0, 0, 0, 0, 0, 9, 9, 9, 9, 9, 9, 
+9, 1, 0, 0, 1, 0, 0, 1, 9, 9, 9, 9, 9, 9, 9, 
+9, 9, 9, 9, 9, 9, 9, 9, 9, 9, 9, 9, 9, 9, 9, 
+]
+
+map_zone = [
+9, 9, 9, 9, 9, 9, 9, 9, 9, 9, 9, 9, 9, 9, 9, 
+9, 9, 9, 9, 9, 9, 9, 1, 1, 1, 1, 2, 2, 2, 9, 
+9, 9, 9, 9, 9, 9, 1, 1, 1, 1, 2, 2, 2, 2, 9, 
+9, 9, 9, 9, 9, 1, 1, 1, 1, 2, 2, 2, 2, 2, 9, 
+9, 9, 9, 9, 1, 1, 1, 1, 1, 2, 2, 2, 2, 2, 9, 
+9, 9, 9, 1, 1, 1, 1, 3, 4, 4, 2, 2, 2, 2, 9, 
+9, 9, 3, 3, 3, 3, 3, 3, 4, 4, 4, 4, 4, 4, 9, 
+9, 3, 3, 3, 3, 3, 3, 4, 4, 4, 4, 4, 4, 4, 9, 
+9, 3, 3, 3, 3, 5, 5, 4, 4, 4, 4, 4, 4, 9, 9, 
+9, 3, 3, 3, 3, 5, 5, 6, 6, 6, 6, 6, 9, 9, 9, 
+9, 5, 5, 5, 5, 5, 6, 6, 6, 6, 6, 9, 9, 9, 9, 
+9, 5, 5, 5, 5, 6, 6, 6, 6, 6, 9, 9, 9, 9, 9, 
+9, 5, 5, 5, 5, 6, 6, 6, 6, 9, 9, 9, 9, 9, 9, 
+9, 5, 5, 5, 5, 6, 6, 6, 9, 9, 9, 9, 9, 9, 9, 
+9, 9, 9, 9, 9, 9, 9, 9, 9, 9, 9, 9, 9, 9, 9, 
+]
+
+#######################################################################################################
+output_dir = f'../OUTPUTS/{case_name_base}'
+
+##### Forward Simulation
+solver_type = 'forward'
+os.makedirs(f'{output_dir}/{case_name2}_{solver_type.upper()}', exist_ok=True)
+conv_hexx = convert_2D_hexx(I_max, J_max, D)
+conv_tri, conv_hexx_ext = convert_2D_tri(I_max, J_max, conv_hexx, level)
+conv_tri_array = np.array(conv_tri)
+max_conv = max(conv_tri)
+conv_neighbor, tri_indices, x, y, all_triangles = calculate_neighbors_2D(s, I_max, J_max, conv_hexx, level)
+matrix_builder = MatrixBuilderForward2DHexx(group, I_max, J_max, conv_tri, conv_neighbor, TOT, SIGS_reshaped, BC, h, level, D, chi, NUFIS)
+M, F_FORWARD = matrix_builder.build_forward_matrices()
+solver = SolverFactory.get_solver_power2DHexx(solver_type, group, conv_tri, M, F_FORWARD, h, precond, tol=1E-10)
+keff, PHI_temp = solver.solve()
+PHI, PHI_reshaped, PHI_temp_reshaped = PostProcessor.postprocess_power2DHexx(PHI_temp, conv_tri, group, N_hexx)
+output = {"keff": keff.real}
+for g in range(len(PHI_reshaped)):
+    phi_groupname = f'PHI{g + 1}_{solver_type.upper()}'
+    output[phi_groupname] = [val.real for val in PHI_reshaped[g]]
+with open(f'{output_dir}/{case_name2}_{solver_type.upper()}/{case_name2}_{solver_type.upper()}_output.json', 'w') as json_file:
+    json.dump(output, json_file, indent=4)
+
+##### Adjoint Simulation
+solver_type = 'adjoint'
+os.makedirs(f'{output_dir}/{case_name2}_{solver_type.upper()}', exist_ok=True)
+matrix_builder = MatrixBuilderAdjoint2DHexx(group, I_max, J_max, conv_tri, conv_neighbor, TOT, SIGS_reshaped, BC, h, level, D, chi, NUFIS)
+M, F_ADJOINT = matrix_builder.build_adjoint_matrices()
+solver = SolverFactory.get_solver_power2DHexx(solver_type, group, conv_tri, M, F_ADJOINT, h, precond, tol=1E-10)
+keff, PHI_ADJ_temp = solver.solve()
+PHI_ADJ, PHI_ADJ_reshaped, PHI_ADJ_temp_reshaped = PostProcessor.postprocess_power2DHexx(PHI_ADJ_temp, conv_tri, group, N_hexx)
+output = {"keff": keff.real}
+for g in range(len(PHI_ADJ_reshaped)):
+    phi_groupname = f'PHI{g + 1}_{solver_type.upper()}'
+    output[phi_groupname] = [val.real for val in PHI_ADJ_reshaped[g]]
+with open(f'{output_dir}/{case_name2}_{solver_type.upper()}/{case_name2}_{solver_type.upper()}_output.json', 'w') as json_file:
+    json.dump(output, json_file, indent=4)
+
+# --------------- MAP DETECTOR -------------------
+# Expand the map detector
+p = 6 * (4 ** (level - 1))
+map_detector_hexx = [0] * I_max * J_max * p
+map_detector_temp = np.reshape(map_detector, (J_max, I_max))
+for j in range(J_max):
+    for i in range(I_max):
+        m = j * I_max + i
+        for k in range(p):
+            if k == 3:
+                map_detector_hexx[m * p + k] = map_detector_temp[j][i]
+map_detector_conv = []
+for n in range(N_hexx):
+    if conv_tri[n] != 0:
+        map_detector_conv.append(map_detector_hexx[n])
+
+# Noise Input Manipulation
+dTOT_hexx = expand_XS_hexx_2D(group, J_max, I_max, dTOT, level)
+dTOT_hexx_OLD = expand_XS_hexx_2D(group, J_max, I_max, dTOT, level)
+TOT_hexx2 = expand_XS_hexx_2D(group, J_max, I_max, TOT, level)
+dSIGS_hexx = expand_SIGS_hexx_2D(group, J_max, I_max, dSIGS_reshaped, level)
+chi_hexx = expand_XS_hexx_2D(group, J_max, I_max, chi, level)
+dNUFIS_hexx = expand_XS_hexx_2D(group, J_max, I_max, dNUFIS, level)
+
+hex_centers, hex_vertices = generate_pointy_hex_grid(s, I_max, J_max)
+triangle_neighbors_global = find_triangle_neighbors_2D(all_triangles, precision=6)
+
+conv_new = np.zeros((group*N_hexx))
+for g in range(group):
+    for n in range(N_hexx):
+        m = g * N_hexx + n
+        if conv_tri[n] > 0:
+            conv_new[m] = g * max(conv_tri) + conv_tri[n]
+
+additional_iter = 1
+max_num_source = 2
+freq = np.logspace(-2, 1, 5)
+add_iter = 0
+iter = 0
+validity_INVERT = []
+validity_ZONE = []
+validity_SCAN = []
+validity_BRUTE = []
+validity_BACK = []
+validity_GREEDY = []
+methods = ["INVERT", "ZONE", "SCAN", "BRUTE", "BACK", "GREEDY"]
+
+iter = 0
+iter_file = f"../OUTPUTS/{case_name_base}/iteration_info.txt"
+
+# Check if the file exists, if yes, delete it
+if os.path.exists(iter_file):
+    os.remove(iter_file)
+    print(f"Existing file '{iter_file}' deleted.")
+
+while add_iter < additional_iter:
+    for num_source in range(max_num_source):
+        for fo in range(len(freq)):
+            dTOT_hexx = [row[:] for row in dTOT_hexx_OLD]
+            source = num_source + 1
+            f = freq[fo]
+
+            loc_conv = []
+            loc = []
+            for s in range(source):
+                loc_conv.append(random.randint(1, group * max(conv_tri)))
+
+            for l, lo in enumerate(loc_conv):
+                for g in range(group):
+                    for n in range(N_hexx):
+                        m = g * N_hexx + n
+                        if lo == conv_new[m]:
+                            loc.append(m)
+
+            mag_real_loc = []
+            mag_imag_loc = []
+            for g in range(group):
+                for n in range(N_hexx):
+                    for l in range(len(loc)):
+                        if g * N_hexx + n == loc[l]:
+                            mag_real = random.randint(1, 10)/100
+                            imag_random = random.randint(0,1)
+                            if imag_random == 0:
+                                dTOT_hexx[g][n] = mag_real * TOT_hexx2[g][n]
+                                mag_real_loc.append(mag_real)
+                                mag_imag_loc.append(0.0)
+                            elif imag_random == 1:
+                                mag_imag = random.randint(1, 10)/100
+                                dTOT_hexx[g][n] = mag_real * TOT_hexx2[g][n] + (1j * mag_imag * TOT_hexx2[g][n])
+                                mag_real_loc.append(mag_real)
+                                mag_imag_loc.append(mag_imag)
+
+            case_name = f'{case_name2}_iter{iter}'
+
+            # Append to file without changing loop structure
+            with open(iter_file, "a") as file:
+                file.write(f"Iteration: {iter+1}, num_source: {len(loc)}, loc_conv = {loc_conv}, loc = {loc}, frequency: {f}, Real magnitude = {mag_real_loc}, Imaginary magnitude = {mag_imag_loc}\n")
+
+            dPHI_temp = main_unfold_2D_hexx_noise(PHI_temp, keff, group, I_max, J_max, N_hexx, conv_tri, conv_neighbor, TOT, SIGS_reshaped, BC, h, level, D, chi, NUFIS, v, Beff, omega, l, dTOT_hexx, dSIGS_hexx, dNUFIS_hexx, chi_hexx, noise_section, type_noise, map_detector_hexx, output_dir, case_name, precond, tri_indices, x, y)
+            G_matrix = main_unfold_2D_hexx_green(keff, group, I_max, J_max, N_hexx, conv_tri, conv_neighbor, TOT, SIGS_reshaped, BC, h, level, D, chi, NUFIS, v, Beff, omega, l, dTOT_hexx, dSIGS_hexx, dNUFIS_hexx, chi_hexx, noise_section, type_noise, output_dir, case_name, precond)
+            S, dPHI_temp_meas = main_unfold_2D_hexx_solve(PHI_temp, G_matrix, dPHI_temp, keff, group, I_max, J_max, N_hexx, conv_tri, conv_neighbor, TOT, SIGS_reshaped, BC, h, level, D, chi, NUFIS, v, Beff, omega, l, dTOT_hexx, dSIGS_hexx, dNUFIS_hexx, chi_hexx, noise_section, type_noise, map_detector_hexx, output_dir, case_name, precond, tri_indices, x, y)
+
+            dPHI_temp_INVERT, dS_unfold_INVERT_temp = main_unfold_2D_hexx_invert(dPHI_temp_meas, dPHI_temp, S, G_matrix, group, I_max, J_max, N_hexx, conv_tri, level, map_detector_hexx, map_zone, output_dir, case_name, tri_indices, x, y, all_triangles)
+            dS_unfold_ZONE_temp = main_unfold_2D_hexx_zone(dPHI_temp_meas, dPHI_temp, S, G_matrix, group, I_max, J_max, N_hexx, conv_tri, level, map_detector_hexx, map_zone, output_dir, case_name, tri_indices, x, y, all_triangles)
+            dS_unfold_SCAN_temp = main_unfold_2D_hexx_scan(dPHI_temp_meas, dPHI_temp, S, G_matrix, group, I_max, J_max, N_hexx, conv_tri, level, map_detector_hexx, map_zone, output_dir, case_name, tri_indices, x, y, all_triangles)
+            if np.allclose(S, dS_unfold_INVERT_temp, atol=1E-06):
+                validity_INVERT.append('yes')
+            else:
+                validity_INVERT.append('no')
+            if np.allclose(S, dS_unfold_ZONE_temp, atol=1E-06):
+                validity_ZONE.append('yes')
+            else:
+                validity_ZONE.append('no')
+            if np.allclose(S, dS_unfold_SCAN_temp, atol=1E-06):
+                validity_SCAN.append('yes')
+            else:
+                validity_SCAN.append('no')
+
+            dPHI_temp_BRUTE, dS_unfold_BRUTE_temp = main_unfold_2D_hexx_brute(dPHI_temp_meas, dPHI_temp, S, G_matrix, group, N_hexx, conv_tri, output_dir, case_name, tri_indices, x, y)
+            if np.allclose(S, dS_unfold_BRUTE_temp, atol=1E-06):
+                validity_BRUTE.append('yes')
+            else:
+                validity_BRUTE.append('no')
+
+            dPHI_temp_BACK, dS_unfold_BACK_temp = main_unfold_2D_hexx_back(dPHI_temp_meas, dPHI_temp, S, G_matrix, group, N_hexx, conv_tri, output_dir, case_name, tri_indices, x, y)
+            if np.allclose(S, dS_unfold_BACK_temp, atol=1E-06):
+                validity_BACK.append('yes')
+            else:
+                validity_BACK.append('no')
+                
+            dPHI_temp_GREEDY, dS_unfold_GREEDY_temp = main_unfold_2D_hexx_greedy_new(dPHI_temp_meas, dPHI_temp, S, G_matrix, group, N_hexx, conv_tri, output_dir, case_name, tri_indices, x, y)
+            if np.allclose(S, dS_unfold_GREEDY_temp, atol=1E-06):
+                validity_GREEDY.append('yes')
+            else:
+                validity_GREEDY.append('no')
+
+            validity = [validity_INVERT, validity_ZONE, validity_SCAN, validity_BRUTE, validity_BACK, validity_GREEDY]
+            with open(f"../OUTPUTS/{case_name_base}/output_validity.txt", "w") as f:
+                for category, lst in zip(methods, validity):
+                    f.write(f"{category} " + ", ".join(lst) + "\n")
+
+            iter += 1
+    add_iter += 1
